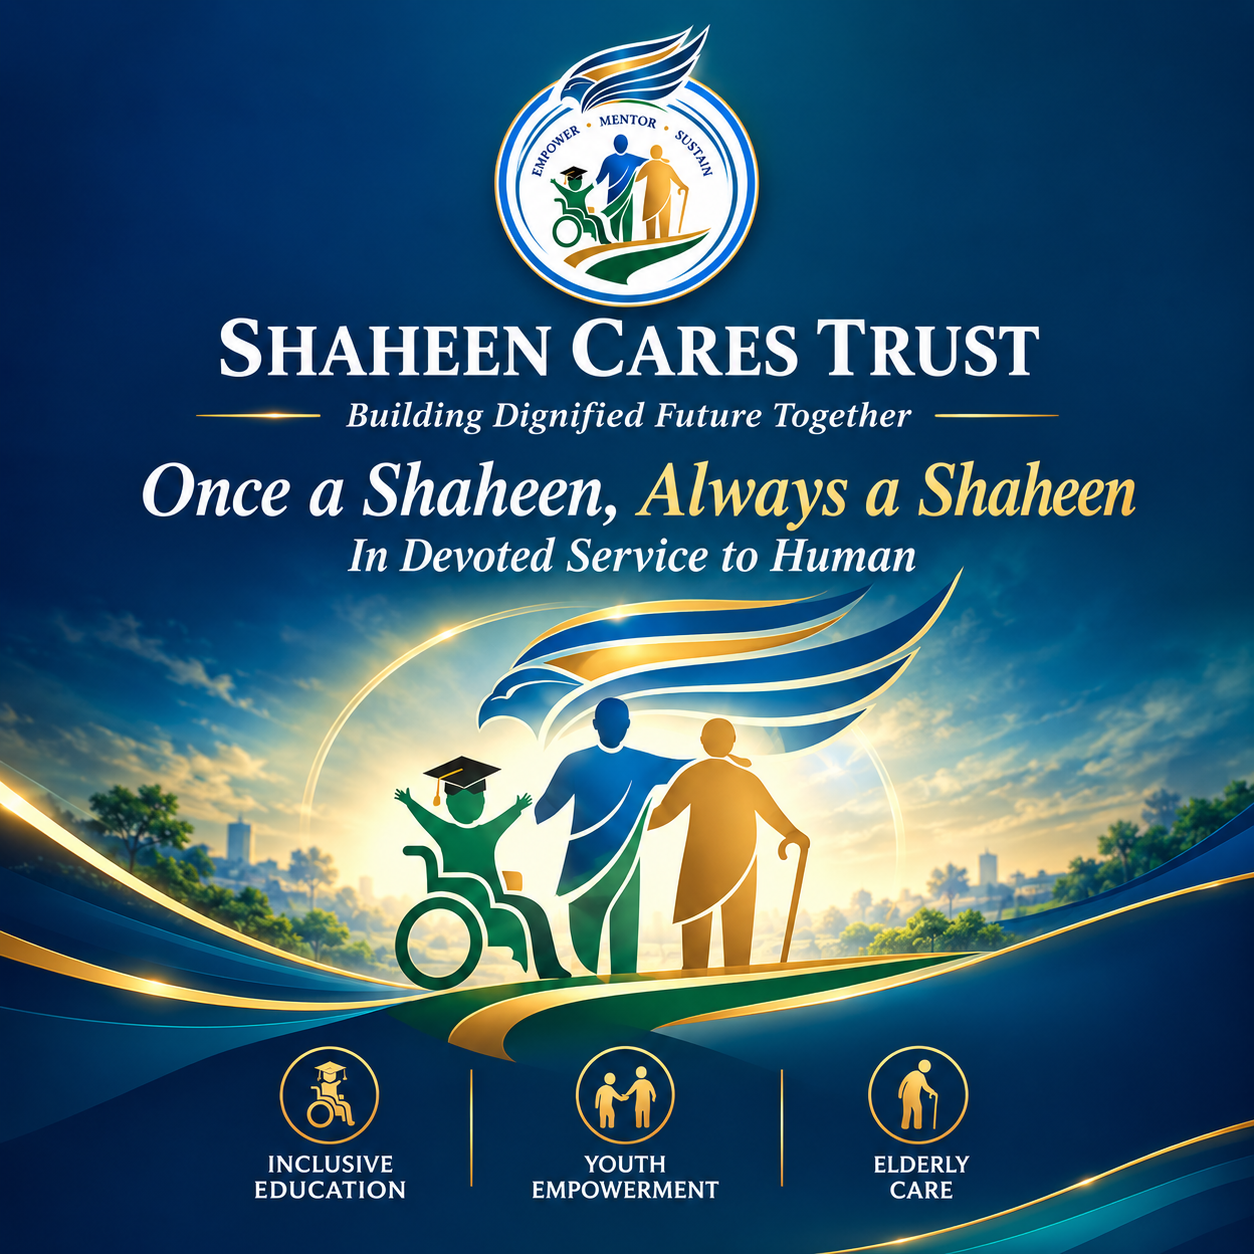
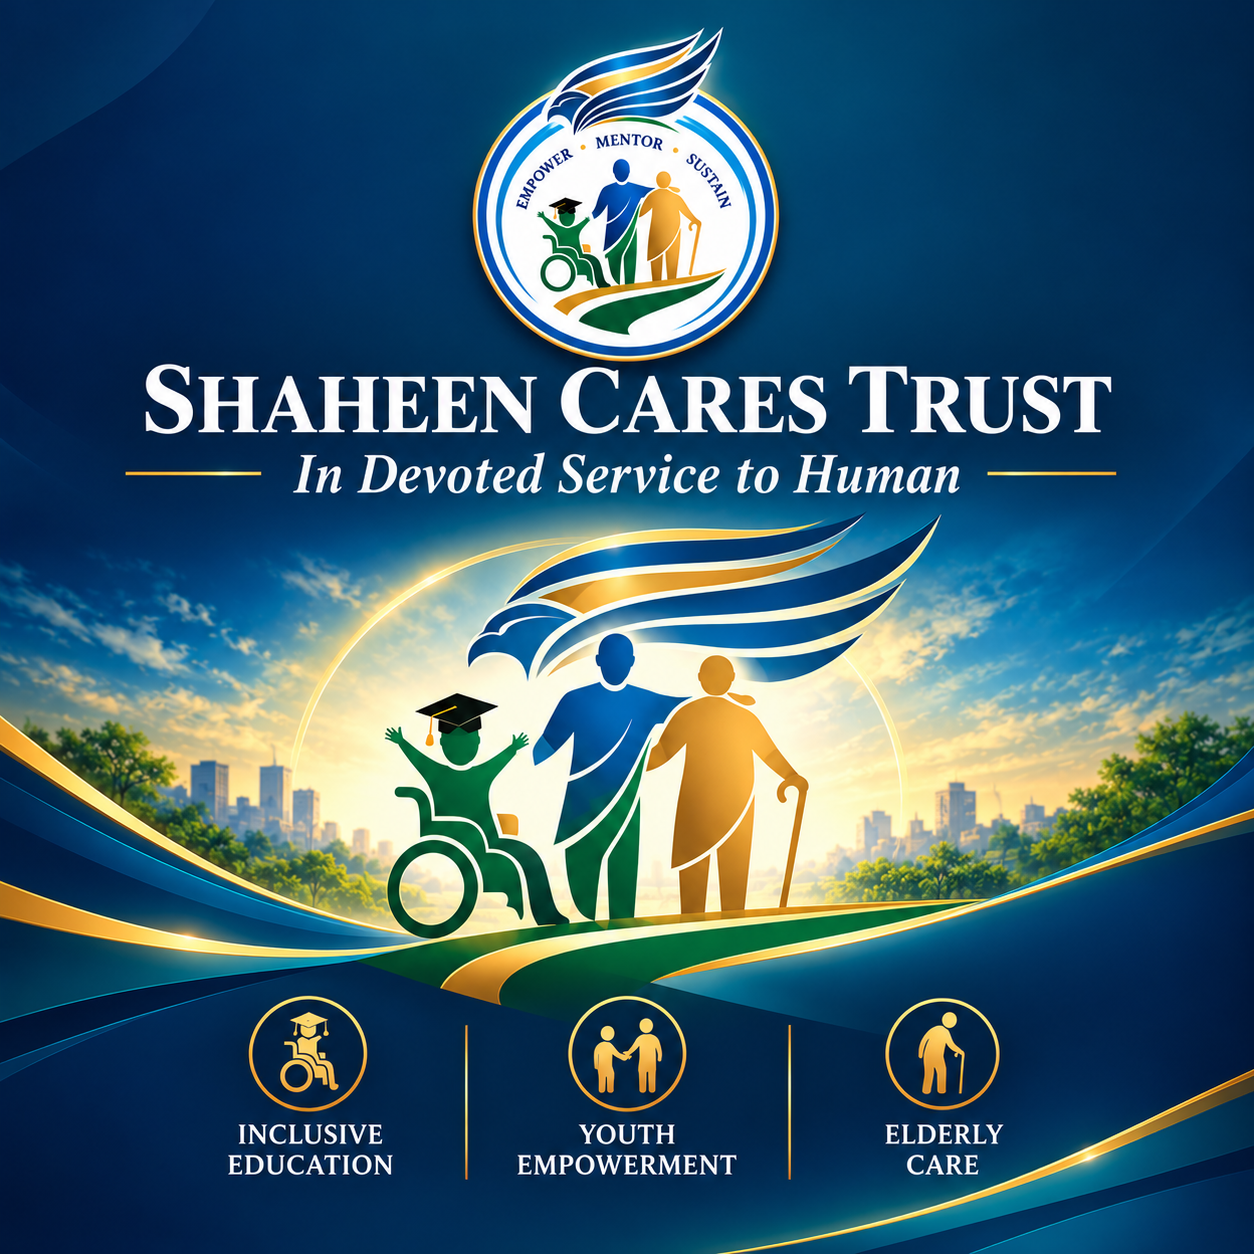
feat: update platform branding and chairman profile
- Enhance header logo and navigation layout
- Update "Who We Are" section content
- Revise Chairman's professional qualifications
- Configure server rewrite rules in .htaccess

diff --git a/src/components/common/Header.tsx b/src/components/common/Header.tsx
@@ -110,20 +110,20 @@ export const Header: React.FC = () => {
 
         {/* MAIN NAVIGATION BAR */}
         <div className="bg-white/95 backdrop-blur-md border-b border-slate-200/80 shadow-xs relative">
-          <div className="max-w-7xl mx-auto px-4 sm:px-6 lg:px-8 h-18 flex items-center justify-between">
+          <div className="max-w-7xl mx-auto px-4 sm:px-6 lg:px-8 h-20 sm:h-22 flex items-center justify-between gap-2">
             
-            {/* LOGO AREA */}
-            <Link to="/" onClick={closeMegaMenu} className="flex items-center gap-3 shrink-0 py-1">
+            {/* LOGO AREA (PROMINENT & ENLARGED) */}
+            <Link to="/" onClick={closeMegaMenu} className="flex items-center gap-3 shrink-0 py-1.5 group">
               <img 
                 src="/Images/logo.png" 
                 alt="Shaheen Cares Trust Logo" 
-                className="h-11 sm:h-12 w-auto object-contain" 
+                className="h-14 sm:h-16 w-auto object-contain drop-shadow-xs transition-transform group-hover:scale-105" 
               />
               <div className="flex flex-col">
-                <span className="font-black text-[#1B365D] text-base sm:text-lg leading-tight tracking-tight">
+                <span className="font-black text-[#1B365D] text-lg sm:text-xl lg:text-2xl leading-tight tracking-tight">
                   {t(siteContent.orgName)}
                 </span>
-                <span className="text-[10px] text-[#138086] font-bold tracking-tight hidden sm:block">
+                <span className="text-xs text-[#138086] font-bold tracking-tight hidden sm:block mt-0.5">
                   {t(siteContent.orgTagline)}
                 </span>
               </div>
@@ -149,7 +149,7 @@ export const Header: React.FC = () => {
               >
                 <Link
                   to="/about"
-                  className={`px-2 xl:px-2.5 py-1.5 rounded-lg flex items-center gap-0.5 whitespace-nowrap transition-colors ${
+                  className={`px-1.5 xl:px-2 py-1.5 rounded-lg flex items-center gap-0.5 whitespace-nowrap transition-colors ${
                     activeMegaTab === 'about' ? 'text-[#138086] bg-slate-100/80' : 'hover:text-[#138086] hover:bg-slate-100/80'
                   }`}
                 >
@@ -166,7 +166,7 @@ export const Header: React.FC = () => {
               >
                 <Link
                   to="/pillars"
-                  className={`px-2 xl:px-2.5 py-1.5 rounded-lg flex items-center gap-0.5 whitespace-nowrap transition-colors ${
+                  className={`px-1.5 xl:px-2 py-1.5 rounded-lg flex items-center gap-0.5 whitespace-nowrap transition-colors ${
                     activeMegaTab === 'pillars' ? 'text-[#138086] bg-slate-100/80' : 'hover:text-[#138086] hover:bg-slate-100/80'
                   }`}
                 >
@@ -183,13 +183,13 @@ export const Header: React.FC = () => {
               >
                 <Link
                   to="/spus"
-                  className={`px-2 xl:px-2.5 py-1.5 rounded-lg flex items-center gap-0.5 whitespace-nowrap transition-colors ${
+                  className={`px-1.5 xl:px-2 py-1.5 rounded-lg flex items-center gap-0.5 whitespace-nowrap transition-colors ${
                     activeMegaTab === 'spus' ? 'text-[#138086] bg-slate-100/80' : 'hover:text-[#138086] hover:bg-slate-100/80'
                   }`}
                 >
                   <span className="flex items-center gap-1">
                     <span className="w-1.5 h-1.5 rounded-full bg-[#138086] animate-pulse" />
-                    <span>{isBn ? 'SPUS প্রজেক্ট' : 'First Project: SPUS'}</span>
+                    <span>{isBn ? 'SPUS প্রজেক্ট' : 'First Project'}</span>
                   </span>
                   <ChevronDown className="w-2.5 h-2.5 xl:w-3 xl:h-3 opacity-60" />
                 </Link>
@@ -203,7 +203,7 @@ export const Header: React.FC = () => {
               >
                 <Link
                   to="/strategy"
-                  className={`px-2 xl:px-2.5 py-1.5 rounded-lg flex items-center gap-0.5 whitespace-nowrap transition-colors ${
+                  className={`px-1.5 xl:px-2 py-1.5 rounded-lg flex items-center gap-0.5 whitespace-nowrap transition-colors ${
                     activeMegaTab === 'strategy' ? 'text-[#138086] bg-slate-100/80' : 'hover:text-[#138086] hover:bg-slate-100/80'
                   }`}
                 >
@@ -220,7 +220,7 @@ export const Header: React.FC = () => {
               >
                 <Link
                   to="/join-us"
-                  className={`px-2 xl:px-2.5 py-1.5 rounded-lg flex items-center gap-0.5 whitespace-nowrap transition-colors ${
+                  className={`px-1.5 xl:px-2 py-1.5 rounded-lg flex items-center gap-0.5 whitespace-nowrap transition-colors ${
                     activeMegaTab === 'involved' ? 'text-[#138086] bg-slate-100/80' : 'hover:text-[#138086] hover:bg-slate-100/80'
                   }`}
                 >
@@ -229,7 +229,7 @@ export const Header: React.FC = () => {
                 </Link>
               </div>
 
-              {/* 6. MEDIA (NEW) */}
+              {/* 6. MEDIA */}
               <div
                 onMouseEnter={() => handleMouseEnter('media')}
                 onMouseLeave={handleMouseLeave}
@@ -237,7 +237,7 @@ export const Header: React.FC = () => {
               >
                 <Link
                   to="/news"
-                  className={`px-2 xl:px-2.5 py-1.5 rounded-lg flex items-center gap-0.5 whitespace-nowrap transition-colors ${
+                  className={`px-1.5 xl:px-2 py-1.5 rounded-lg flex items-center gap-0.5 whitespace-nowrap transition-colors ${
                     activeMegaTab === 'media' ? 'text-[#138086] bg-slate-100/80' : 'hover:text-[#138086] hover:bg-slate-100/80'
                   }`}
                 >
@@ -254,7 +254,7 @@ export const Header: React.FC = () => {
               >
                 <Link
                   to="/resources"
-                  className={`px-2 xl:px-2.5 py-1.5 rounded-lg flex items-center gap-0.5 whitespace-nowrap transition-colors ${
+                  className={`px-1.5 xl:px-2 py-1.5 rounded-lg flex items-center gap-0.5 whitespace-nowrap transition-colors ${
                     activeMegaTab === 'resources' ? 'text-[#138086] bg-slate-100/80' : 'hover:text-[#138086] hover:bg-slate-100/80'
                   }`}
                 >
@@ -267,7 +267,7 @@ export const Header: React.FC = () => {
               <Link 
                 to="/contact" 
                 onClick={closeMegaMenu}
-                className="px-2 xl:px-2.5 py-1.5 rounded-lg hover:text-[#138086] hover:bg-slate-100/80 whitespace-nowrap transition-colors"
+                className="px-1.5 xl:px-2 py-1.5 rounded-lg hover:text-[#138086] hover:bg-slate-100/80 whitespace-nowrap transition-colors"
               >
                 {isBn ? 'যোগাযোগ' : 'Contact'}
               </Link>
@@ -281,19 +281,16 @@ export const Header: React.FC = () => {
               <button
                 id="search-trigger-btn"
                 onClick={() => setIsSearchOpen(true)}
-                className="p-1.5 sm:p-2 text-slate-600 hover:text-[#138086] hover:bg-slate-100 rounded-xl flex items-center gap-1 transition-colors cursor-pointer"
+                className="p-2 text-slate-600 hover:text-[#138086] hover:bg-slate-100 rounded-xl flex items-center gap-1 transition-colors cursor-pointer"
                 title="Search (Ctrl+K)"
               >
                 <Search className="w-4 h-4" />
-                <span className="hidden 2xl:inline text-[9px] font-mono text-slate-400 bg-slate-100 px-1 py-0.5 rounded border border-slate-200">
-                  Ctrl+K
-                </span>
               </button>
 
               {/* Primary CTA Button */}
               <Link
                 to="/join-us"
-                className="bg-[#1B365D] hover:bg-[#104E7A] text-white px-3 sm:px-3.5 py-2 rounded-xl text-xs font-bold shadow-md shadow-[#1B365D]/20 hover:shadow-lg flex items-center gap-1.5 transition-all whitespace-nowrap"
+                className="bg-[#1B365D] hover:bg-[#104E7A] text-white px-3.5 sm:px-4 py-2.5 rounded-xl text-xs font-bold shadow-md shadow-[#1B365D]/20 hover:shadow-lg flex items-center gap-1.5 transition-all whitespace-nowrap"
               >
                 <Heart className="w-3.5 h-3.5 text-[#E6A119] fill-[#E6A119] shrink-0" />
                 <span>{isBn ? 'যুক্ত হোন' : 'Join Us / Donate'}</span>
@@ -782,7 +779,7 @@ export const Header: React.FC = () => {
               )}
             </div>
 
-            {/* Media Accordion (NEW) */}
+            {/* Media Accordion */}
             <div className="border-b border-slate-100 py-1">
               <button 
                 onClick={() => setMobileSubMenu(mobileSubMenu === 'media' ? null : 'media')}

diff --git a/src/pages/public/ChairmanPage.tsx b/src/pages/public/ChairmanPage.tsx
@@ -81,10 +81,13 @@ export const ChairmanPage: React.FC = () => {
                   <span>Key Qualifications</span>
                 </div>
                 <ul className="space-y-1 text-[11px] text-slate-500">
-                  <li>• Managing Director of Data Enterprises Limited and Maxtech Limited</li>
-                  <li>• Former Director of the Dhaka Chamber of Commerce & Industry (DCCI)</li>
-                  <li>• Past President of the Rotary Club of Metropolitan Dhaka</li>
-                  <li>• Proud alumnus of Dhaka University and BAF Shaheen College Dhaka</li>
+                  <li>• Managing Director of Data Enterprises Limited</li>
+                  <li>• Former Director & Active Member of Dhaka Chamber of Commerce & Industry (DCCI)</li>
+                  <li>• Former JCI World Vice President (2006) & JCI Bangladesh National President (2004)</li>
+                  <li>• Vice President of Bangladesh Sustainable & Renewable Energy Association (BSREA)</li>
+                  <li>• President of Ex-Shaheen Association Dhaka (ESAD) (2024–25)</li>
+                  <li>• Past President of Rotary Club of Metropolitan Dhaka (2001–02) & Paul Harris Fellow</li>
+                  <li>• M.B.S. in Finance & Banking from Dhaka University and Proud Shaheen Alumnus</li>
                 </ul>
               </div>
             </div>

diff --git a/src/components/public/home/WhoWeAreSection.tsx b/src/components/public/home/WhoWeAreSection.tsx
@@ -53,7 +53,10 @@ export const WhoWeAreSection: React.FC = () => {
                   {isBn ? 'শাহীন ঐতিহ্যের অঙ্গীকার' : 'Shaheen Legacy of Care'}
                 </span>
                 <p className="font-extrabold text-base sm:text-lg leading-snug drop-shadow-md">
-                  {isBn ? '“ওয়ান্স আ শাহীন, অলওয়েজ আ শাহীন — মানবতার কল্যাণে নিবেদিত।”' : '"Once a Shaheen, Always a Shaheen — In Devoted Service to Humanity."'}
+                  {isBn 
+                    ? '“মর্যাদাপূর্ণ ভবিষ্যৎ গড়ি, একসাথে”' 
+                    : '"Building Dignified Futures, Together"'
+                  }
                 </p>
               </div>
             </div>
